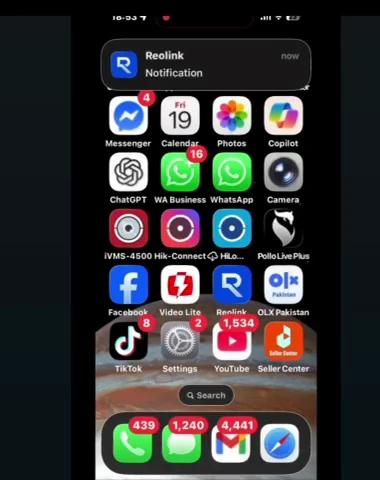
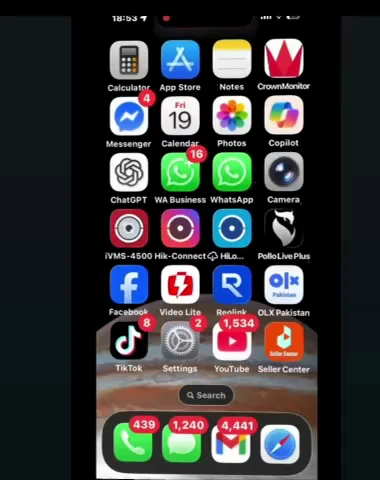
fix(v139): perfect iPhone app demo video alignment and autoplay streaming

diff --git a/css/styles.css b/css/styles.css
@@ -2380,13 +2380,14 @@ p { font-size: 19px; color: var(--text-secondary); font-weight: 400; margin-bott
         0 50px 100px rgba(0,0,0,0.8),   /* Deep Shadow */
         0 0 40px rgba(47, 101, 246, 0.2); /* Visual Glow */
     border: 1px solid rgba(255,255,255,0.1);
+    box-sizing: border-box;
 }
 
 .iphone-inner {
     position: relative;
     width: 100%;
     height: 100%;
-    background: #06070a;
+    background: #000;
     border-radius: 40px;
     overflow: hidden;
     display: flex;
@@ -2394,16 +2395,7 @@ p { font-size: 19px; color: var(--text-secondary); font-weight: 400; margin-bott
 }
 
 .dynamic-island {
-    position: absolute;
-    top: 10px;
-    left: 50%;
-    transform: translateX(-50%);
-    width: 90px;
-    height: 28px;
-    background: #000;
-    border-radius: 20px;
-    z-index: 50;
-    box-shadow: inset 0 0 4px rgba(255,255,255,0.1);
+    display: none; /* Video recording already contains native Dynamic Island and status bar */
 }
 
 .iphone-button {
@@ -2434,8 +2426,10 @@ p { font-size: 19px; color: var(--text-secondary); font-weight: 400; margin-bott
     position: absolute;
     top: 0; left: 0; right: 0; bottom: 0;
     width: 100%; height: 100%;
-    z-index: 5; /* Above background but below potential HUD artifacts */
+    z-index: 5;
     background: #000;
+    border-radius: 40px;
+    overflow: hidden;
 }
 
 .app-header-mock {
@@ -2452,8 +2446,6 @@ p { font-size: 19px; color: var(--text-secondary); font-weight: 400; margin-bott
     font-size: 14px;
 }
 
-
-
 .app-video-mock {
     width: 100%;
     height: 100%;
@@ -2464,12 +2456,15 @@ p { font-size: 19px; color: var(--text-secondary); font-weight: 400; margin-bott
 
 .mock-video-element {
     position: absolute;
-    top: 50%; left: 50%;
-    width: 105%; height: 105%;
+    top: 0;
+    left: 0;
+    width: 100%;
+    height: 100%;
     object-fit: cover;
-    object-position: 60% 40%; /* Refined position based on user feedback */
-    transform: translate(-50%, -50%);
+    object-position: center top;
     z-index: 5;
+    border-radius: 40px;
+    display: block;
 }
 
 .video-overlay-hud {

diff --git a/css/styles.min.css b/css/styles.min.css
@@ -2380,13 +2380,14 @@ p { font-size: 19px; color: var(--text-secondary); font-weight: 400; margin-bott
         0 50px 100px rgba(0,0,0,0.8),   /* Deep Shadow */
         0 0 40px rgba(47, 101, 246, 0.2); /* Visual Glow */
     border: 1px solid rgba(255,255,255,0.1);
+    box-sizing: border-box;
 }
 
 .iphone-inner {
     position: relative;
     width: 100%;
     height: 100%;
-    background: #06070a;
+    background: #000;
     border-radius: 40px;
     overflow: hidden;
     display: flex;
@@ -2394,16 +2395,7 @@ p { font-size: 19px; color: var(--text-secondary); font-weight: 400; margin-bott
 }
 
 .dynamic-island {
-    position: absolute;
-    top: 10px;
-    left: 50%;
-    transform: translateX(-50%);
-    width: 90px;
-    height: 28px;
-    background: #000;
-    border-radius: 20px;
-    z-index: 50;
-    box-shadow: inset 0 0 4px rgba(255,255,255,0.1);
+    display: none; /* Video recording already contains native Dynamic Island and status bar */
 }
 
 .iphone-button {
@@ -2434,8 +2426,10 @@ p { font-size: 19px; color: var(--text-secondary); font-weight: 400; margin-bott
     position: absolute;
     top: 0; left: 0; right: 0; bottom: 0;
     width: 100%; height: 100%;
-    z-index: 5; /* Above background but below potential HUD artifacts */
+    z-index: 5;
     background: #000;
+    border-radius: 40px;
+    overflow: hidden;
 }
 
 .app-header-mock {
@@ -2452,8 +2446,6 @@ p { font-size: 19px; color: var(--text-secondary); font-weight: 400; margin-bott
     font-size: 14px;
 }
 
-
-
 .app-video-mock {
     width: 100%;
     height: 100%;
@@ -2464,12 +2456,15 @@ p { font-size: 19px; color: var(--text-secondary); font-weight: 400; margin-bott
 
 .mock-video-element {
     position: absolute;
-    top: 50%; left: 50%;
-    width: 105%; height: 105%;
+    top: 0;
+    left: 0;
+    width: 100%;
+    height: 100%;
     object-fit: cover;
-    object-position: 60% 40%; /* Refined position based on user feedback */
-    transform: translate(-50%, -50%);
+    object-position: center top;
     z-index: 5;
+    border-radius: 40px;
+    display: block;
 }
 
 .video-overlay-hud {

diff --git a/index.html b/index.html
@@ -85,7 +85,7 @@
     <meta name="apple-mobile-web-app-capable" content="yes">
     <meta name="apple-mobile-web-app-status-bar-style" content="black-translucent">
     <meta name="apple-mobile-web-app-title" content="Reolink PK">
-    <link rel="stylesheet" href="css/styles.min.css?v=138">
+    <link rel="stylesheet" href="css/styles.min.css?v=139">
 
     <!-- Structured Data: Product Schema -->
     <script type="application/ld+json">
@@ -1215,7 +1215,7 @@
                         <div class="iphone-inner">
                             <div class="dynamic-island"></div>
                             <div class="app-video-mock full-video">
-                                <video autoplay muted loop playsinline class="mock-video-element lazy-video" preload="metadata" poster="images/posters/alert_video_new.webp" src="images/alert_video_new.mp4">
+                                <video autoplay muted loop playsinline webkit-playsinline class="mock-video-element lazy-video" preload="auto" poster="images/posters/alert_video_new.webp" src="images/alert_video_new.mp4">
                                     <source src="images/alert_video_new.mp4" type="video/mp4">
                                 </video>
                             </div>
@@ -2429,12 +2429,12 @@
         </div>
     </div>
 
-    <script src="js/script.js?v=138" defer></script>
-    <script src="js/cms.js?v=138" defer></script>
+    <script src="js/script.js?v=139" defer></script>
+    <script src="js/cms.js?v=139" defer></script>
     <!-- Ionicons loaded last — non-blocking icons -->
     <script type="module" src="https://unpkg.com/ionicons@7.1.0/dist/ionicons/ionicons.esm.js"></script>
     <script nomodule src="https://unpkg.com/ionicons@7.1.0/dist/ionicons/ionicons.js"></script>
-    <script src="js/conversion.js?v=138"></script>
+    <script src="js/conversion.js?v=139"></script>
 </body>
 
 </html>

diff --git a/product-details.html b/product-details.html
@@ -56,7 +56,7 @@
     <meta name="apple-mobile-web-app-capable" content="yes">
     <meta name="apple-mobile-web-app-status-bar-style" content="black-translucent">
     <meta name="apple-mobile-web-app-title" content="Reolink PK">
-    <link rel="stylesheet" href="css/styles.min.css?v=138">
+    <link rel="stylesheet" href="css/styles.min.css?v=139">
     <!-- Google Model Viewer for rotatable 3D products -->
     <script type="module" src="https://ajax.googleapis.com/ajax/libs/model-viewer/3.5.0/model-viewer.min.js"></script>
 </head>
@@ -649,12 +649,12 @@
         </div>
     </div>
 
-    <script src="js/script.js?v=138"></script>
-    <script src="js/cms.js?v=138"></script>
-    <script src="js/product-details.js?v=138"></script>
+    <script src="js/script.js?v=139"></script>
+    <script src="js/cms.js?v=139"></script>
+    <script src="js/product-details.js?v=139"></script>
     <!-- Ionicons loaded last — non-blocking -->
     <script type="module" src="https://unpkg.com/ionicons@7.1.0/dist/ionicons/ionicons.esm.js"></script>
     <script nomodule src="https://unpkg.com/ionicons@7.1.0/dist/ionicons/ionicons.js"></script>
-    <script src="js/conversion.js?v=138"></script>
+    <script src="js/conversion.js?v=139"></script>
 </body>
 </html>

diff --git a/category.html b/category.html
@@ -55,7 +55,7 @@
     <meta name="apple-mobile-web-app-capable" content="yes">
     <meta name="apple-mobile-web-app-status-bar-style" content="black-translucent">
     <meta name="apple-mobile-web-app-title" content="Reolink PK">
-    <link rel="stylesheet" href="css/styles.min.css?v=138">
+    <link rel="stylesheet" href="css/styles.min.css?v=139">
 </head>
 <body class="reo-dark-mode">
     <!-- Galaxy Nebula Background -->
@@ -399,12 +399,12 @@
         </div>
     </div>
 
-    <script src="js/script.js?v=138"></script>
-    <script src="js/cms.js?v=138"></script>
-    <script src="js/category.js?v=138"></script>
+    <script src="js/script.js?v=139"></script>
+    <script src="js/cms.js?v=139"></script>
+    <script src="js/category.js?v=139"></script>
     <!-- Ionicons loaded last — non-blocking -->
     <script type="module" src="https://unpkg.com/ionicons@7.1.0/dist/ionicons/ionicons.esm.js"></script>
     <script nomodule src="https://unpkg.com/ionicons@7.1.0/dist/ionicons/ionicons.js"></script>
-    <script src="js/conversion.js?v=138"></script>
+    <script src="js/conversion.js?v=139"></script>
 </body>
 </html>

diff --git a/go-pt-plus.html b/go-pt-plus.html
@@ -59,7 +59,7 @@
     <meta name="apple-mobile-web-app-capable" content="yes">
     <meta name="apple-mobile-web-app-status-bar-style" content="black-translucent">
     <meta name="apple-mobile-web-app-title" content="Reolink PK">
-    <link rel="stylesheet" href="css/styles.min.css?v=138">
+    <link rel="stylesheet" href="css/styles.min.css?v=139">
 <!-- Structured Data: Product Schema -->
     <script type="application/ld+json">
     {
@@ -888,11 +888,11 @@
         </div>
     </div>
 
-    <script src="js/script.js?v=138"></script>
-    <script src="js/cms.js?v=138"></script>
+    <script src="js/script.js?v=139"></script>
+    <script src="js/cms.js?v=139"></script>
     <!-- Ionicons loaded last — non-blocking -->
     <script type="module" src="https://unpkg.com/ionicons@7.1.0/dist/ionicons/ionicons.esm.js"></script>
     <script nomodule src="https://unpkg.com/ionicons@7.1.0/dist/ionicons/ionicons.js"></script>
-    <script src="js/conversion.js?v=138"></script>
+    <script src="js/conversion.js?v=139"></script>
 </body>
 </html>

diff --git a/warranty.html b/warranty.html
@@ -53,7 +53,7 @@
     <meta name="apple-mobile-web-app-capable" content="yes">
     <meta name="apple-mobile-web-app-status-bar-style" content="black-translucent">
     <meta name="apple-mobile-web-app-title" content="Reolink PK">
-    <link rel="stylesheet" href="css/styles.min.css?v=138">
+    <link rel="stylesheet" href="css/styles.min.css?v=139">
 
     <!-- Structured Data: FAQPage Schema -->
     <script type="application/ld+json">
@@ -378,11 +378,11 @@
         </div>
     </div>
 
-    <script src="js/script.js?v=138"></script>
-    <script src="js/cms.js?v=138"></script>
+    <script src="js/script.js?v=139"></script>
+    <script src="js/cms.js?v=139"></script>
     <!-- Ionicons loaded last — non-blocking -->
     <script type="module" src="https://unpkg.com/ionicons@7.1.0/dist/ionicons/ionicons.esm.js"></script>
     <script nomodule src="https://unpkg.com/ionicons@7.1.0/dist/ionicons/ionicons.js"></script>
-    <script src="js/conversion.js?v=138"></script>
+    <script src="js/conversion.js?v=139"></script>
 </body>
 </html>

diff --git a/jzones-v630.html b/jzones-v630.html
@@ -145,7 +145,7 @@
     <meta name="apple-mobile-web-app-title" content="Reolink PK">
 
     <!-- Styles -->
-    <link rel="stylesheet" href="css/styles.min.css?v=138">
+    <link rel="stylesheet" href="css/styles.min.css?v=139">
     <link rel="stylesheet" href="css/jzones.css?v=3">
     <style>
         /* Seamless Navbar Integration */
@@ -1172,8 +1172,8 @@
         </div>
     </div>
 
-<script src="js/script.js?v=138"></script>
-<script src="js/cms.js?v=138"></script>
+<script src="js/script.js?v=139"></script>
+<script src="js/cms.js?v=139"></script>
 <script src="js/jzones.js?v=3"></script>
 </body>
 </html>

diff --git a/sw.js b/sw.js
@@ -1,12 +1,12 @@
 // Reolink Pakistan & JZONES — Service Worker
-const CACHE_NAME = 'reolink-pwa-v138';
+const CACHE_NAME = 'reolink-pwa-v139';
 const CORE_ASSETS = [
   '/',
   '/index.html',
-  '/css/styles.min.css?v=138',
-  '/js/script.js?v=138',
-  '/js/cms.js?v=138',
-  '/js/conversion.js?v=138',
+  '/css/styles.min.css?v=139',
+  '/js/script.js?v=139',
+  '/js/cms.js?v=139',
+  '/js/conversion.js?v=139',
   '/images/favicon-32.png',
   '/images/icon-192.png',
   '/images/icon-512.png',

diff --git a/best-car-dashcam-pakistan-guide.html b/best-car-dashcam-pakistan-guide.html
@@ -63,7 +63,7 @@
     <link rel="preconnect" href="https://fonts.googleapis.com">
     <link rel="preconnect" href="https://fonts.gstatic.com" crossorigin>
     <link href="https://fonts.googleapis.com/css2?family=Quicksand:wght@400;500;600;700&display=swap" rel="stylesheet">
-    <link rel="stylesheet" href="css/styles.min.css?v=138">
+    <link rel="stylesheet" href="css/styles.min.css?v=139">
 
     <!-- Structured Data: Article Schema -->
     <script type="application/ld+json">
